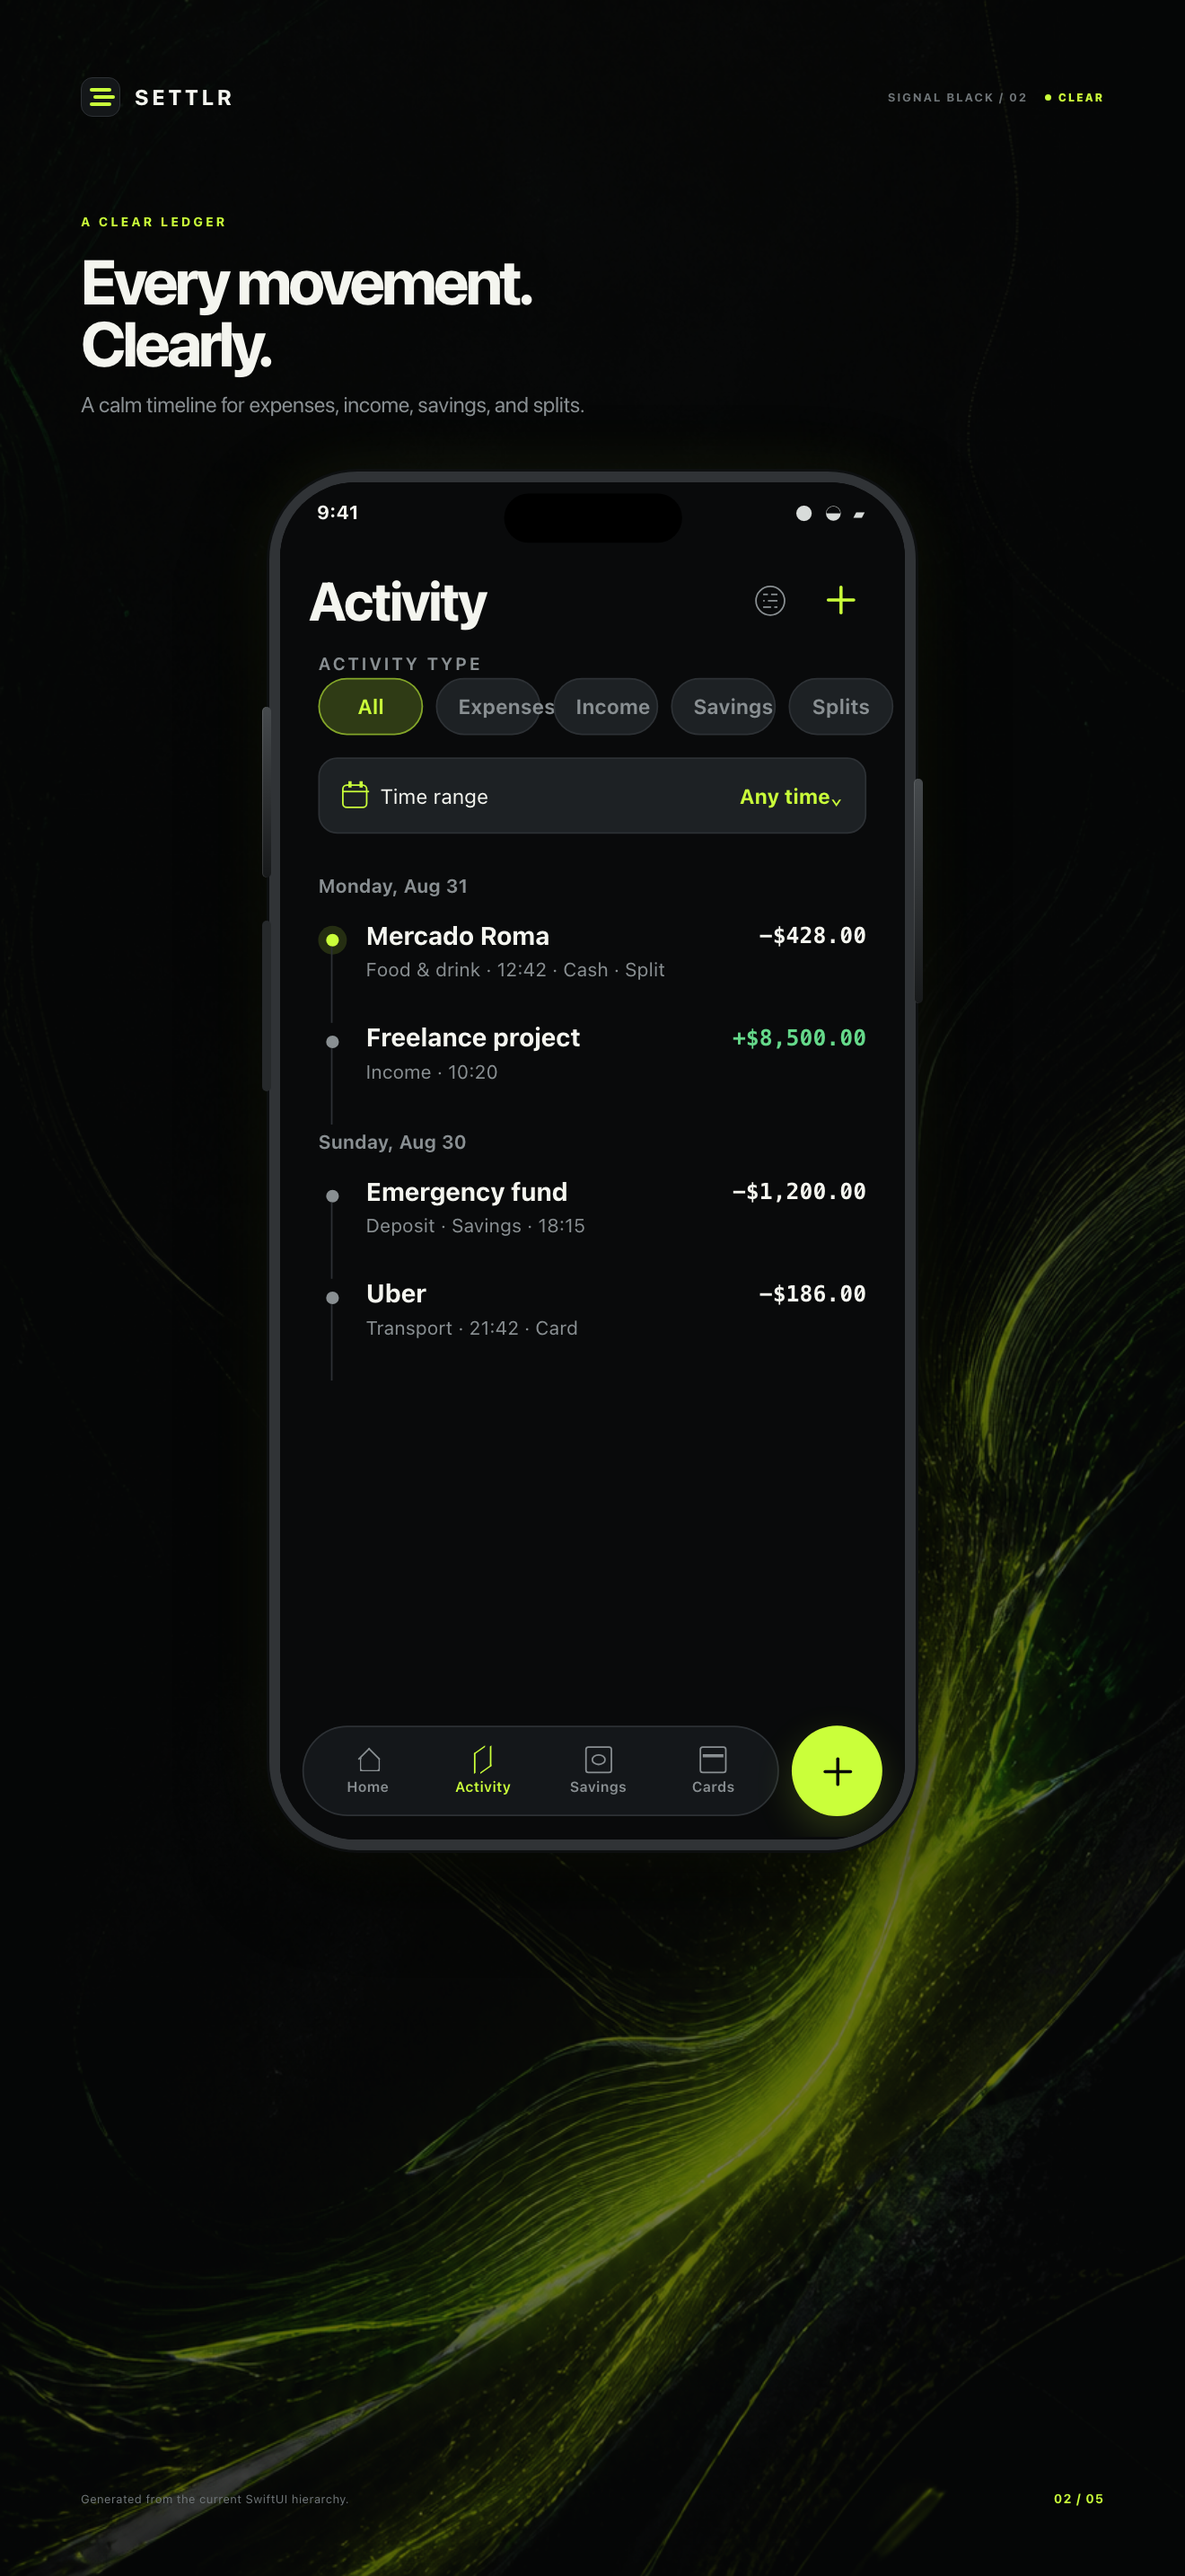
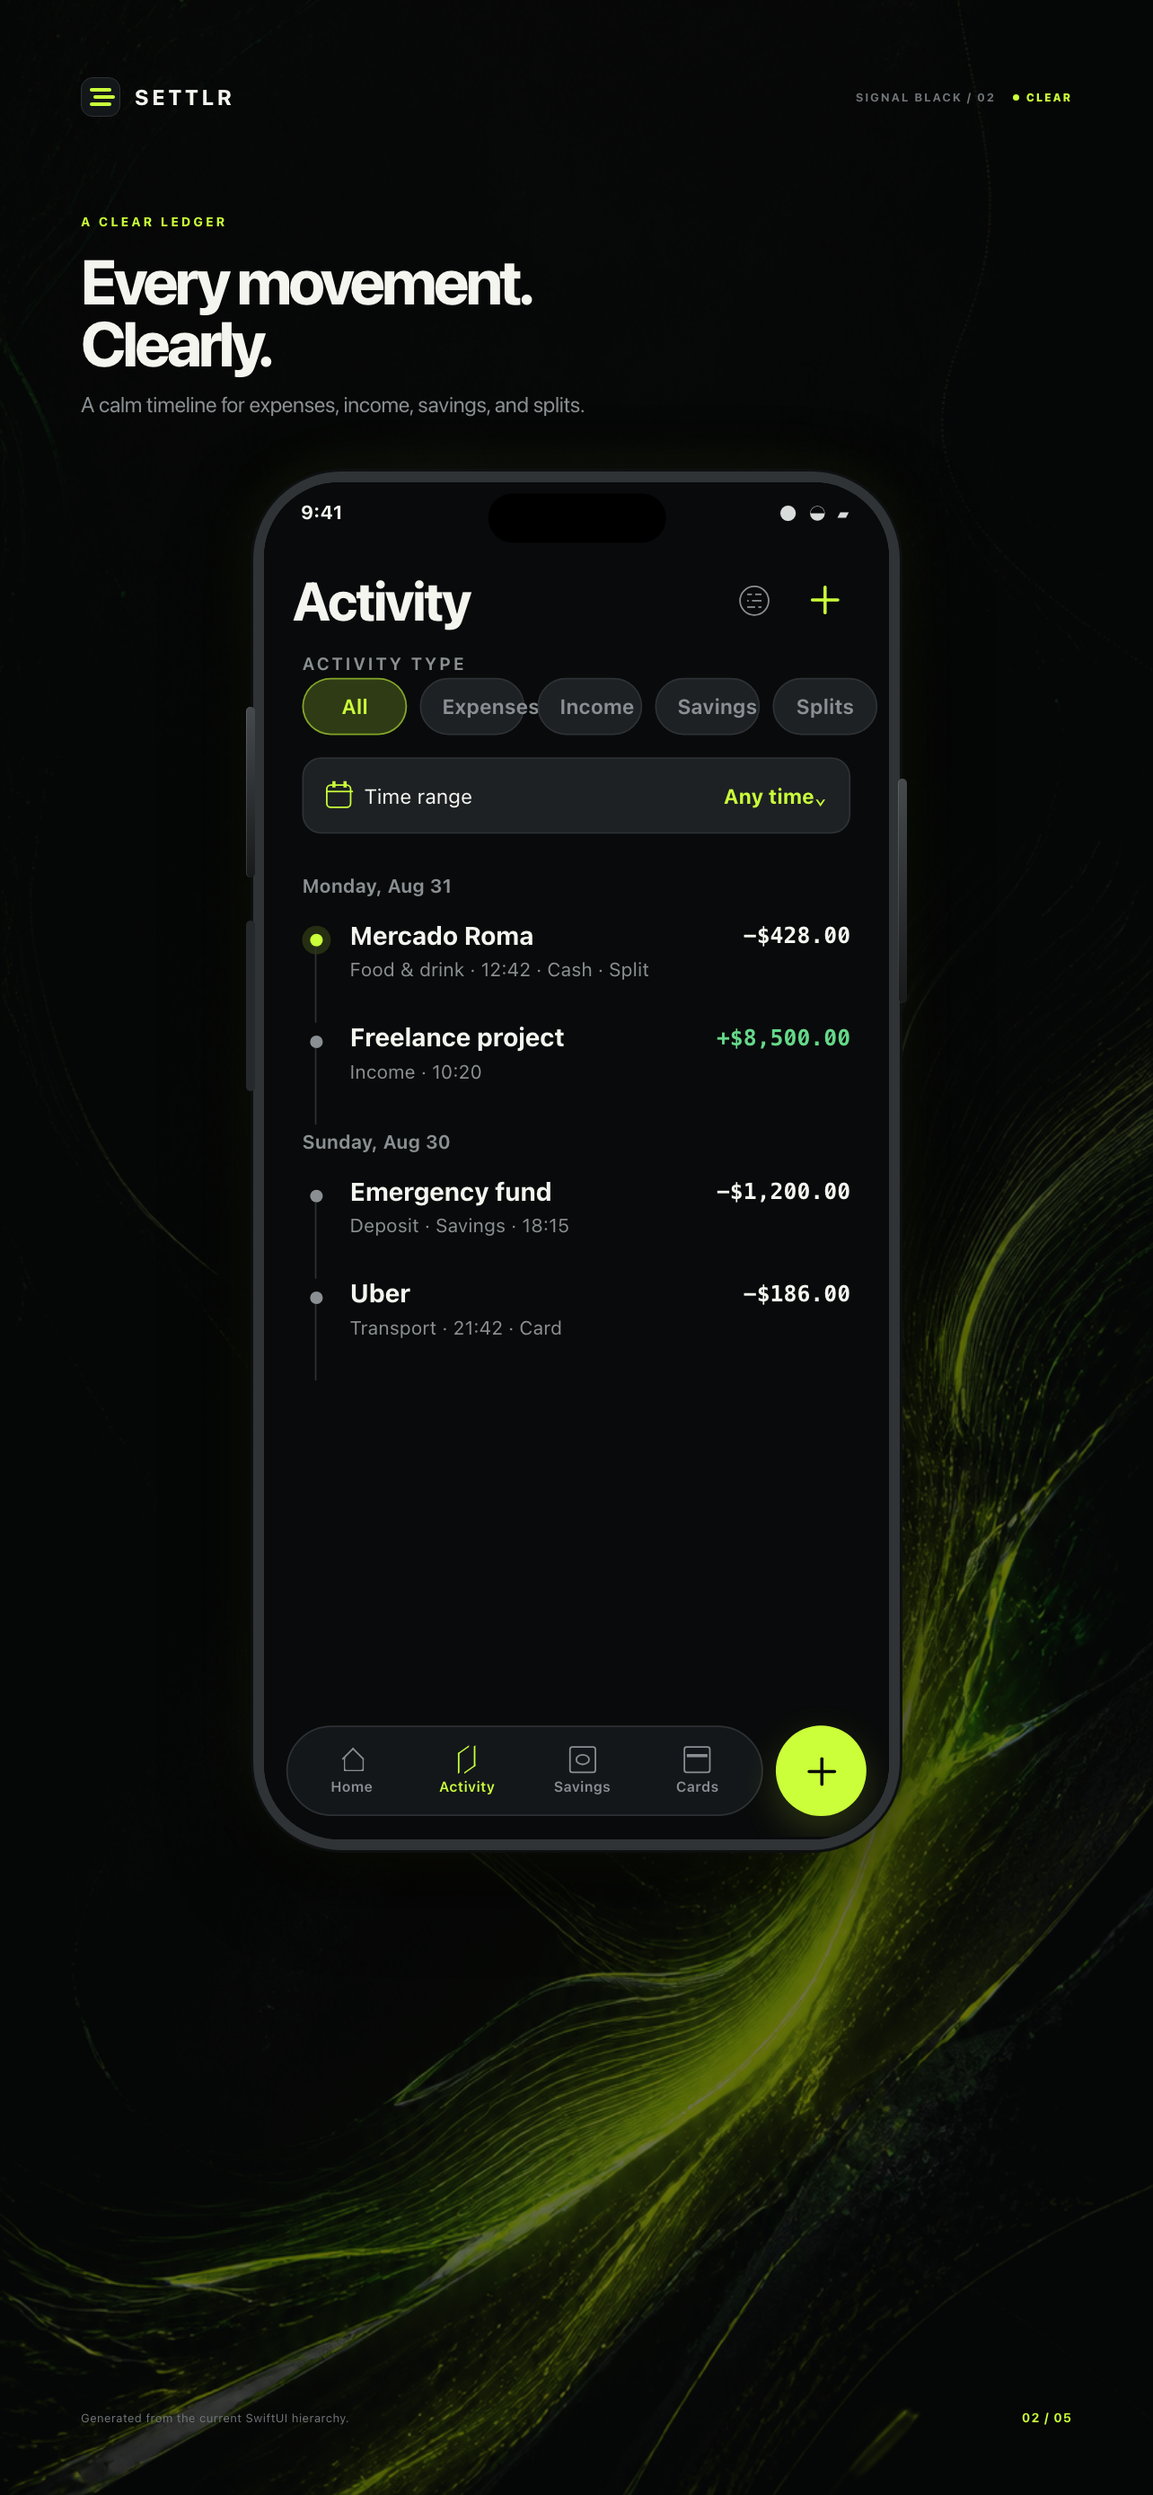
Resize App Store screenshots for 6.5-inch slot

Changed region(s): [[0.0623, 0.031, 0.81, 0.743], [0.5296, 0.3715, 0.5607, 0.4024]]

diff --git a/docs/app-store-assets/app-store-screenshots.html b/docs/app-store-assets/app-store-screenshots.html
@@ -2,7 +2,7 @@
 <html lang="en">
 <head>
   <meta charset="utf-8">
-  <meta name="viewport" content="width=1320,height=2868,initial-scale=1">
+  <meta name="viewport" content="width=1284,height=2778,initial-scale=1">
   <title>Settlr App Store screenshots</title>
   <style>
     :root {
@@ -22,9 +22,9 @@
     }
 
     * { box-sizing: border-box; }
-    html, body { width: 1320px; height: 2868px; margin: 0; overflow: hidden; }
+    html, body { width: 1284px; height: 2778px; margin: 0; overflow: hidden; }
     body { background: var(--bg); color: var(--ink); font-family: -apple-system, BlinkMacSystemFont, "SF Pro Display", "Helvetica Neue", Arial, sans-serif; -webkit-font-smoothing: antialiased; }
-    .canvas { position: relative; width: 1320px; height: 2868px; overflow: hidden; background: var(--bg) url("./signal-black-background.png") center / 100% 100% no-repeat; }
+    .canvas { position: relative; width: 1284px; height: 2778px; overflow: hidden; background: var(--bg) url("./signal-black-background.png") center / 100% 100% no-repeat; }
     .canvas::after { content: ""; position: absolute; inset: 0; background: rgba(9, 10, 11, .58); pointer-events: none; }
     .slide { position: absolute; inset: 0; z-index: 1; display: none; flex-direction: column; padding: 82px 90px 78px; }
     .slide.active { display: flex; }

diff --git a/docs/app-store-assets/README.md b/docs/app-store-assets/README.md
@@ -1,8 +1,8 @@
 # Settlr App Store screenshots
 
-The compositor is [app-store-screenshots.html](./app-store-screenshots.html). It renders one opaque portrait canvas at **1320 × 2868 px**, with `?slide=1` through `?slide=5` selecting the campaign frame. The five phone screens are generated in HTML from the current SwiftUI hierarchy and Signal Black design tokens. No screenshot inputs are required.
+The compositor is [app-store-screenshots.html](./app-store-screenshots.html). It renders one opaque portrait canvas at **1284 × 2778 px**, with `?slide=1` through `?slide=5` selecting the campaign frame. The five phone screens are generated in HTML from the current SwiftUI hierarchy and Signal Black design tokens. No screenshot inputs are required.
 
-Apple source note: this set targets the currently accepted **6.9-inch** iPhone screenshot size (**1320 × 2868**). App Store screenshot sets allow **1–10** images; export as **JPG or PNG with no alpha channel**.
+Apple source note: this set targets the accepted **6.5-inch** iPhone screenshot size (**1284 × 2778**). App Store screenshot sets allow **1–10** images; export as **JPG or PNG with no alpha channel**.
 
 Final export filenames:
 
@@ -12,7 +12,7 @@ Final export filenames:
 - `04-savings.jpg`
 - `05-cards.jpg`
 
-Use the JPEGs for App Store Connect. Each final export must be 1320 × 2868 and have no alpha channel. Apple’s live specification is: <https://developer.apple.com/help/app-store-connect/reference/app-information/screenshot-specifications>.
+Use the JPEGs for App Store Connect. Each final export must be 1284 × 2778 and have no alpha channel. Apple’s live specification is: <https://developer.apple.com/help/app-store-connect/reference/app-information/screenshot-specifications>.
 
 Generation command used for each frame:
 
@@ -20,7 +20,7 @@ Generation command used for each frame:
 # Repeat with slide=1…5 and the matching output filename.
 "/Applications/Google Chrome.app/Contents/MacOS/Google Chrome" \
   --headless=new --disable-gpu --hide-scrollbars \
-  --force-device-scale-factor=1 --window-size=1320,2868 \
+  --force-device-scale-factor=1 --window-size=1284,2778 \
   --screenshot=01-dashboard.png \
   "file:///absolute/path/app-store-screenshots.html?slide=1"
 
